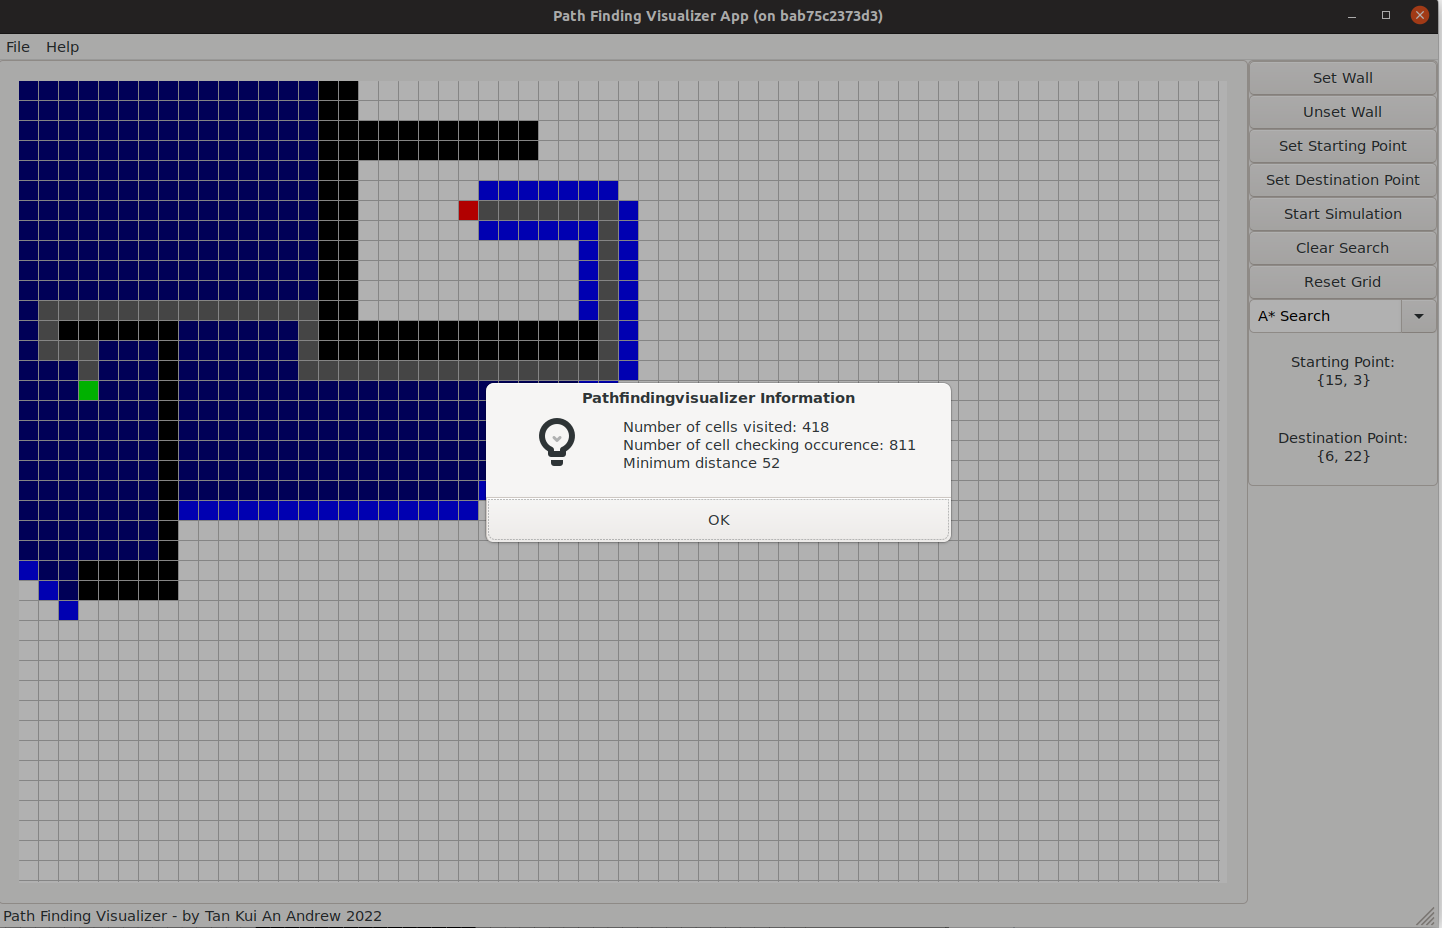
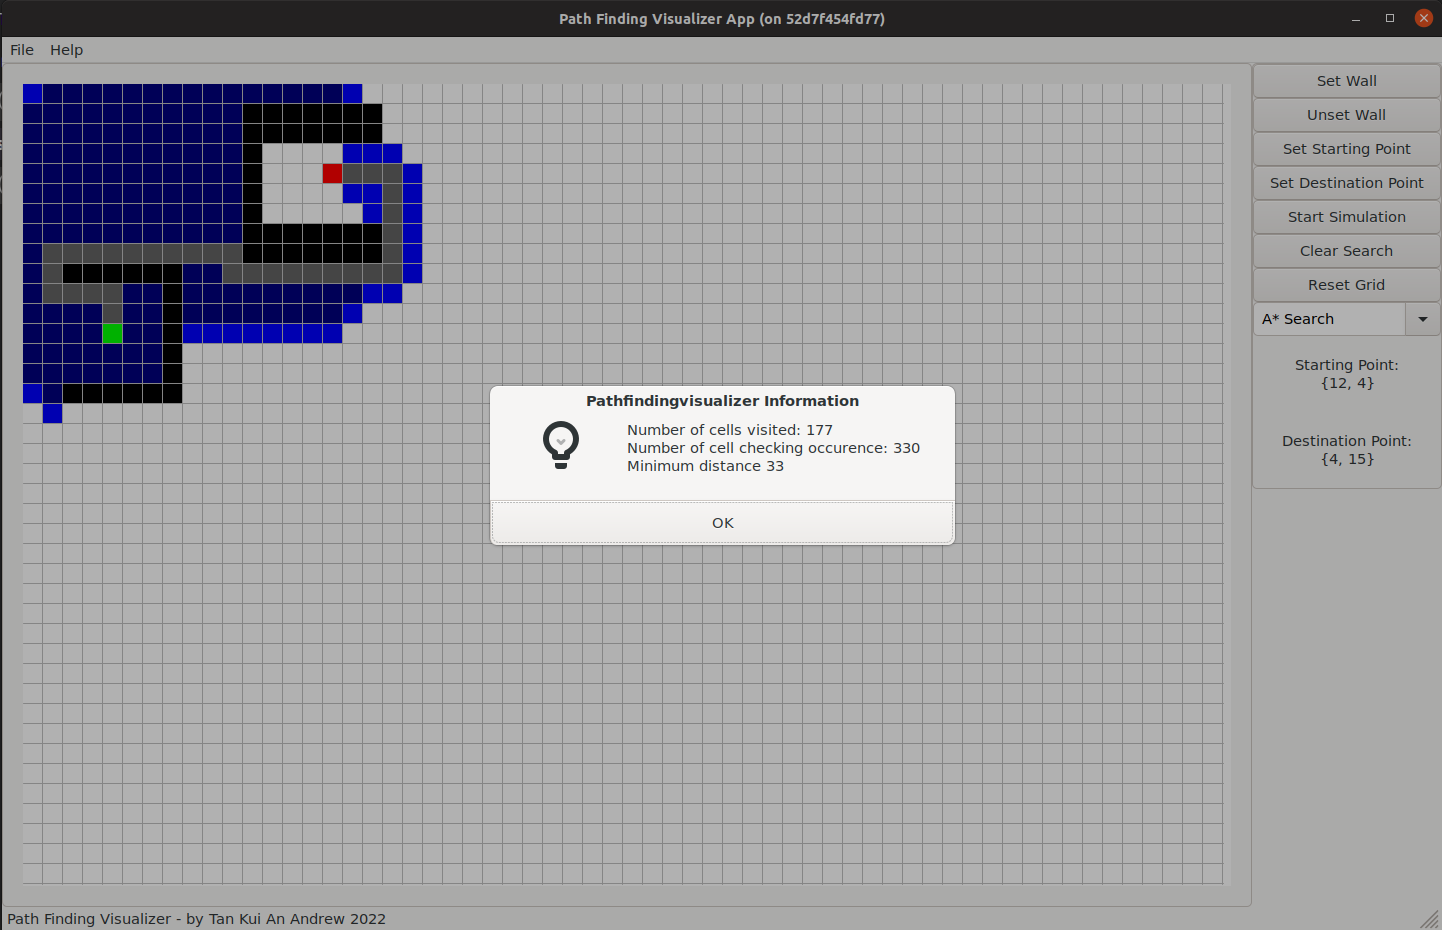
update screenshots

Changed region(s): [[0.0, 0.0, 1.0, 1.0]]

diff --git a/README.md b/README.md
@@ -54,6 +54,10 @@ cmake --build .
 ![BFS01](https://github.com/tka-andrew/PathFindingVisualizer_CPP/blob/master/images/BFS01.png?raw=true)
 ![BFS02](https://github.com/tka-andrew/PathFindingVisualizer_CPP/blob/master/images/BFS02.png?raw=true)
 
+### Bidirectional BFS
+![biBFS01](https://github.com/tka-andrew/PathFindingVisualizer_CPP/blob/master/images/biBFS01.png?raw=true)
+![biBFS02](https://github.com/tka-andrew/PathFindingVisualizer_CPP/blob/master/images/biBFS02.png?raw=true)
+
 ## References
 1. [Using CMake with wxWidgets application](https://docs.wxwidgets.org/trunk/overview_cmake.html)
 2. [wxWidgets tutorials](https://www.wxwidgets.org/docs/tutorials/)
